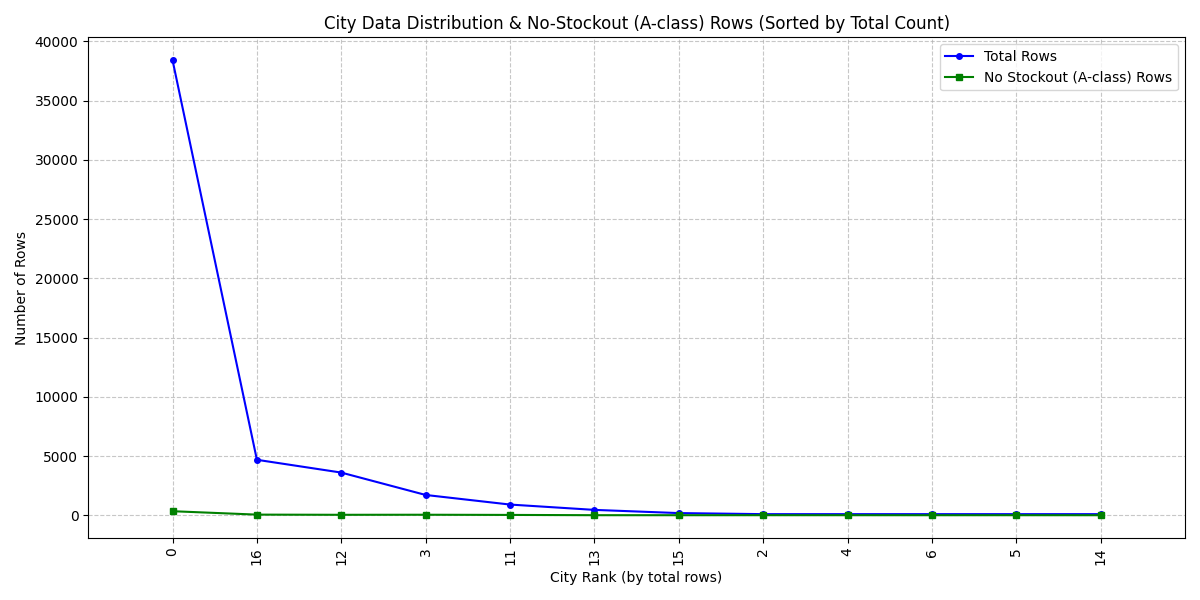
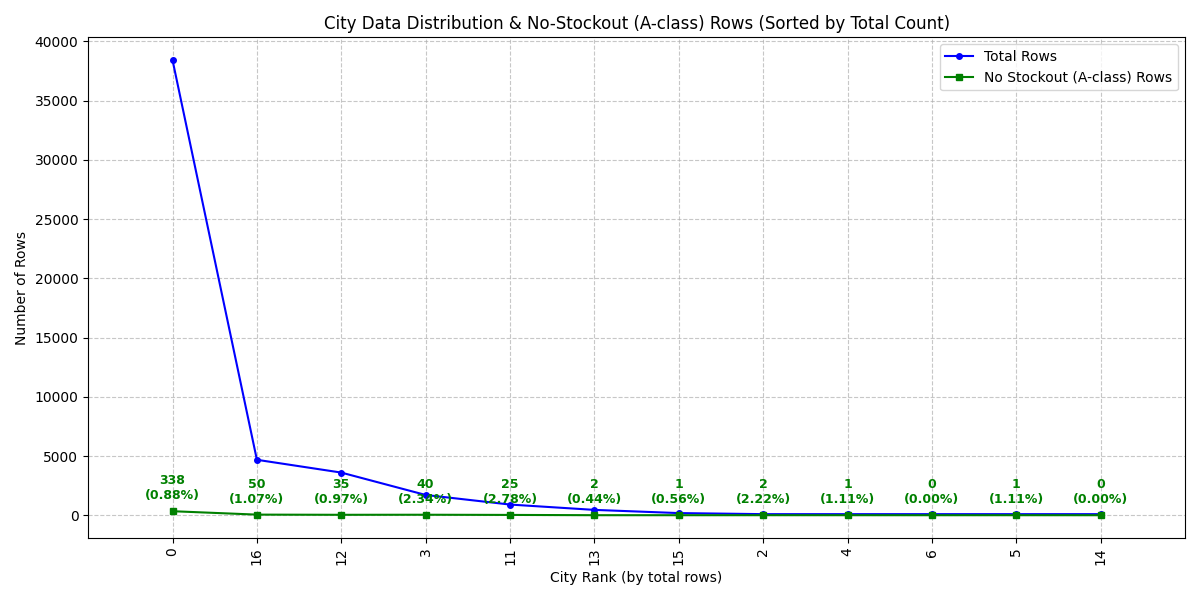
feat: Are you there

diff --git a/demand_imputation/analyze_city_no_stockout.py b/demand_imputation/analyze_city_no_stockout.py
@@ -37,6 +37,16 @@ def main():
     # Plot no stockout rows
     plt.plot(range(len(city_stats)), city_stats['no_stockout_rows'], label='No Stockout (A-class) Rows', color='green', marker='s', markersize=4)
     
+    # Add text annotations for A-class data (count and ratio)
+    y_offset = city_stats['total_rows'].max() * 0.02  # dynamic offset for text
+    for i, (idx, row) in enumerate(city_stats.iterrows()):
+        count = int(row['no_stockout_rows'])
+        ratio = row['no_stockout_ratio'] * 100
+        # Format the text: Count \n (Ratio%)
+        text_str = f"{count}\n({ratio:.2f}%)"
+        plt.text(i, count + y_offset, text_str, ha='center', va='bottom', fontsize=9, color='green', fontweight='bold')
+    
+    
     plt.title('City Data Distribution & No-Stockout (A-class) Rows (Sorted by Total Count)')
     plt.xlabel('City Rank (by total rows)')
     plt.ylabel('Number of Rows')
